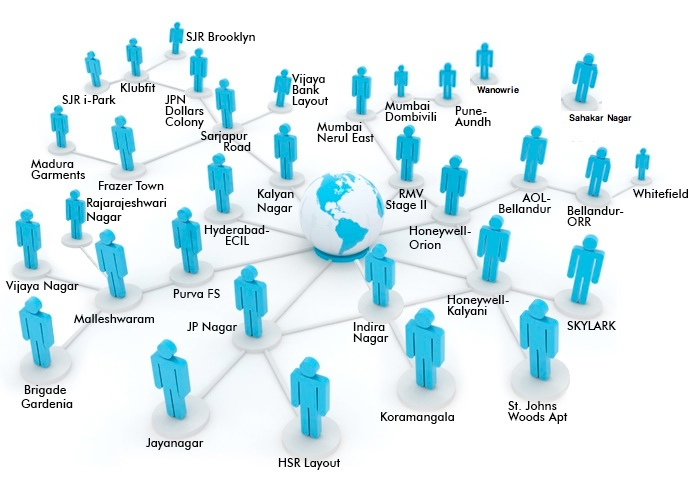
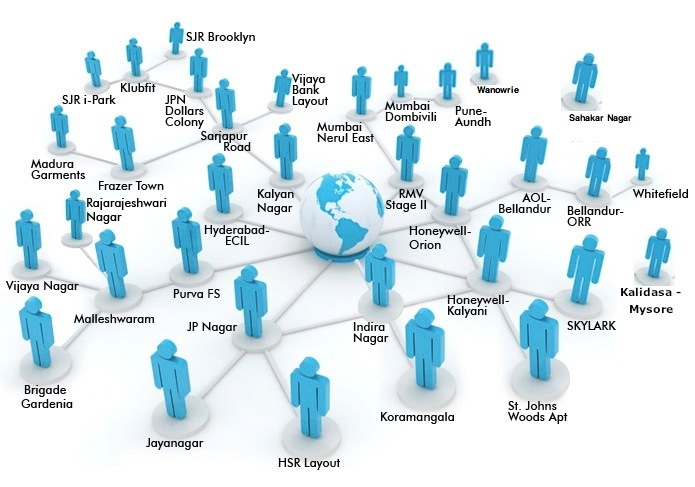
added kdr store

diff --git a/config/initializers/omniauth.rb b/config/initializers/omniauth.rb
@@ -23,7 +23,8 @@ Rails.application.config.middleware.use OmniAuth::Builder do
 
   provider :google_apps, OpenID::Store::Filesystem.new('/tmp'), :name => 'skn', :domain => 'skn.justbooksclc.com'
   provider :google_apps, OpenID::Store::Filesystem.new('/tmp'), :name => 'wan', :domain => 'wan.justbooksclc.com'
-  
+  provider :google_apps, OpenID::Store::Filesystem.new('/tmp'), :name => 'kdr', :domain => 'kdr.justbooksclc.com'
+    
   provider :google_apps, OpenID::Store::Filesystem.new('/tmp'), :name => 'strata', :domain => 'strata.co.in'
   
 end

diff --git a/app/models/branch.rb b/app/models/branch.rb
@@ -26,6 +26,7 @@ class Branch < ActiveRecord::Base
           when 'rrn'  then 33
           when 'skn'  then 35
           when 'wan'  then 36  
+          when 'kdr'  then 37  
           else 801
           end
     id
